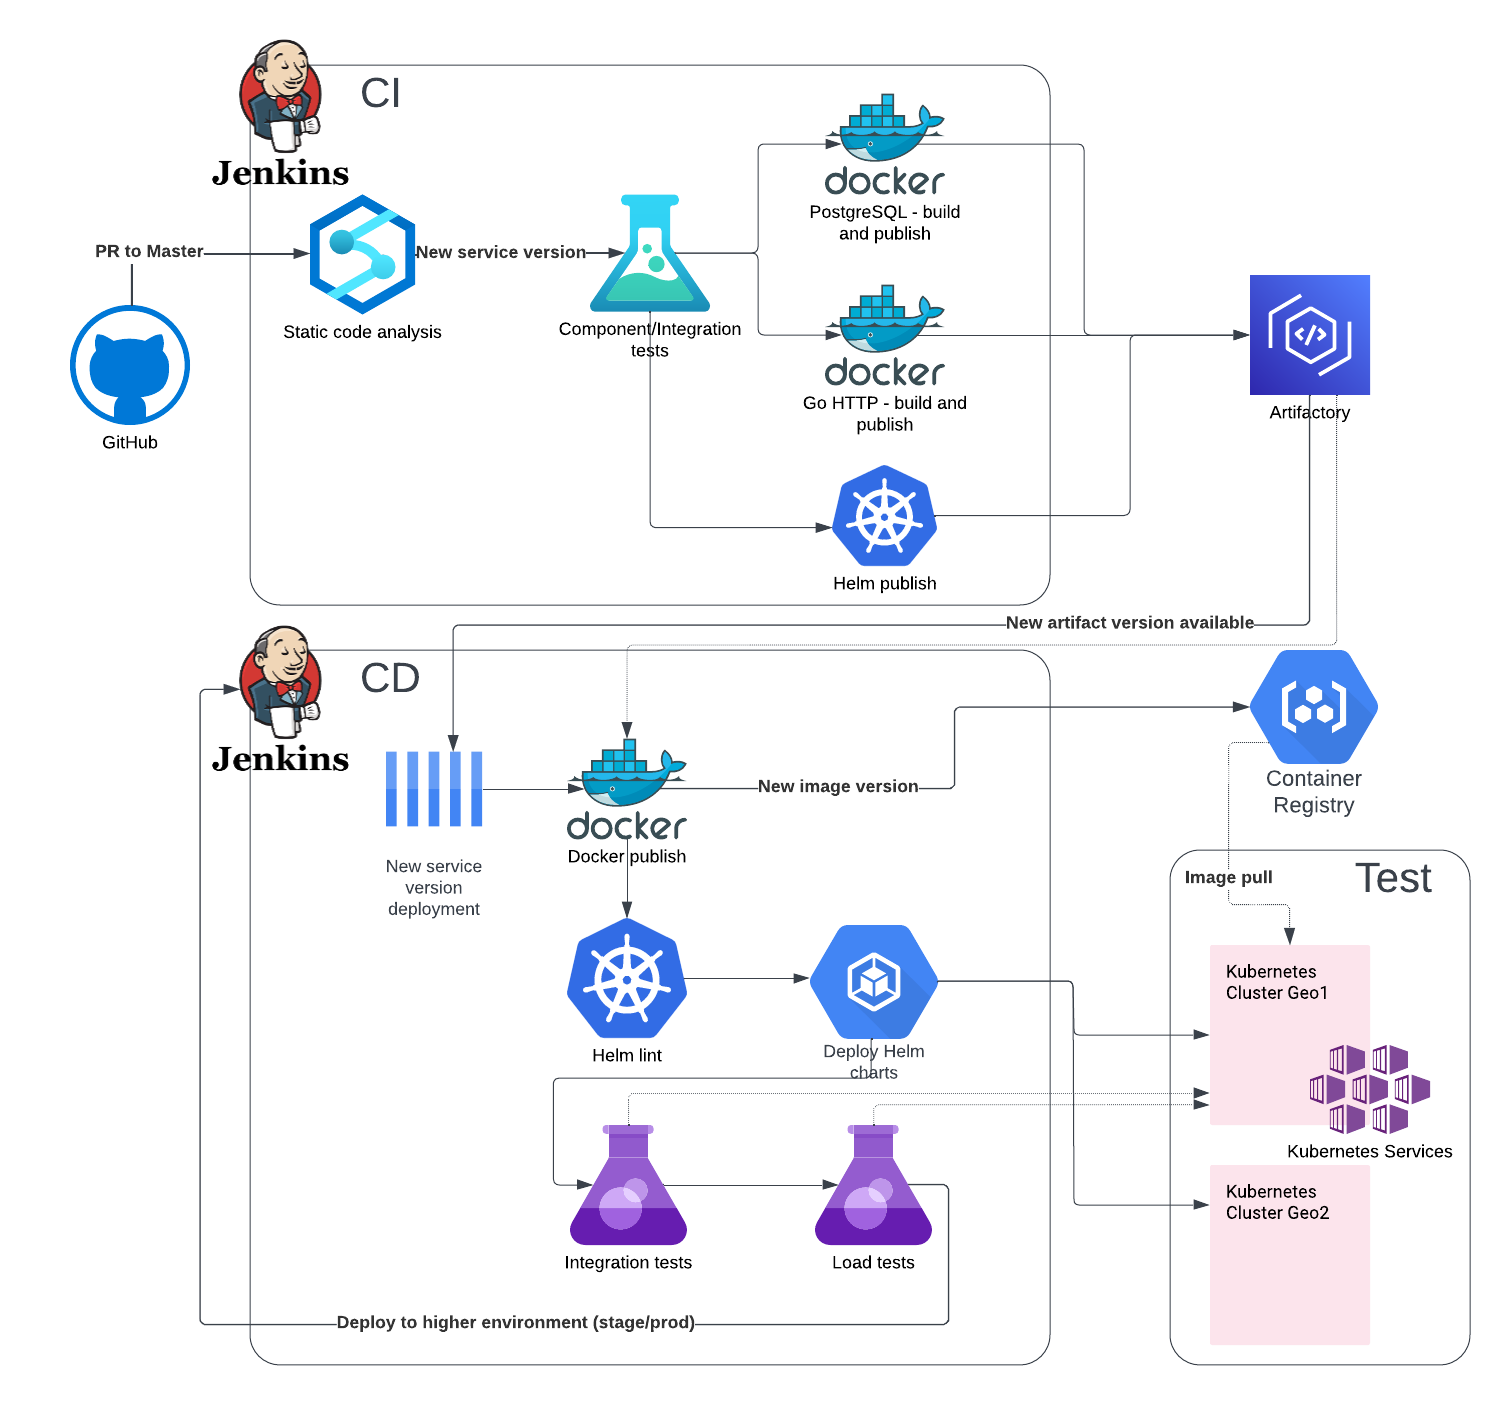
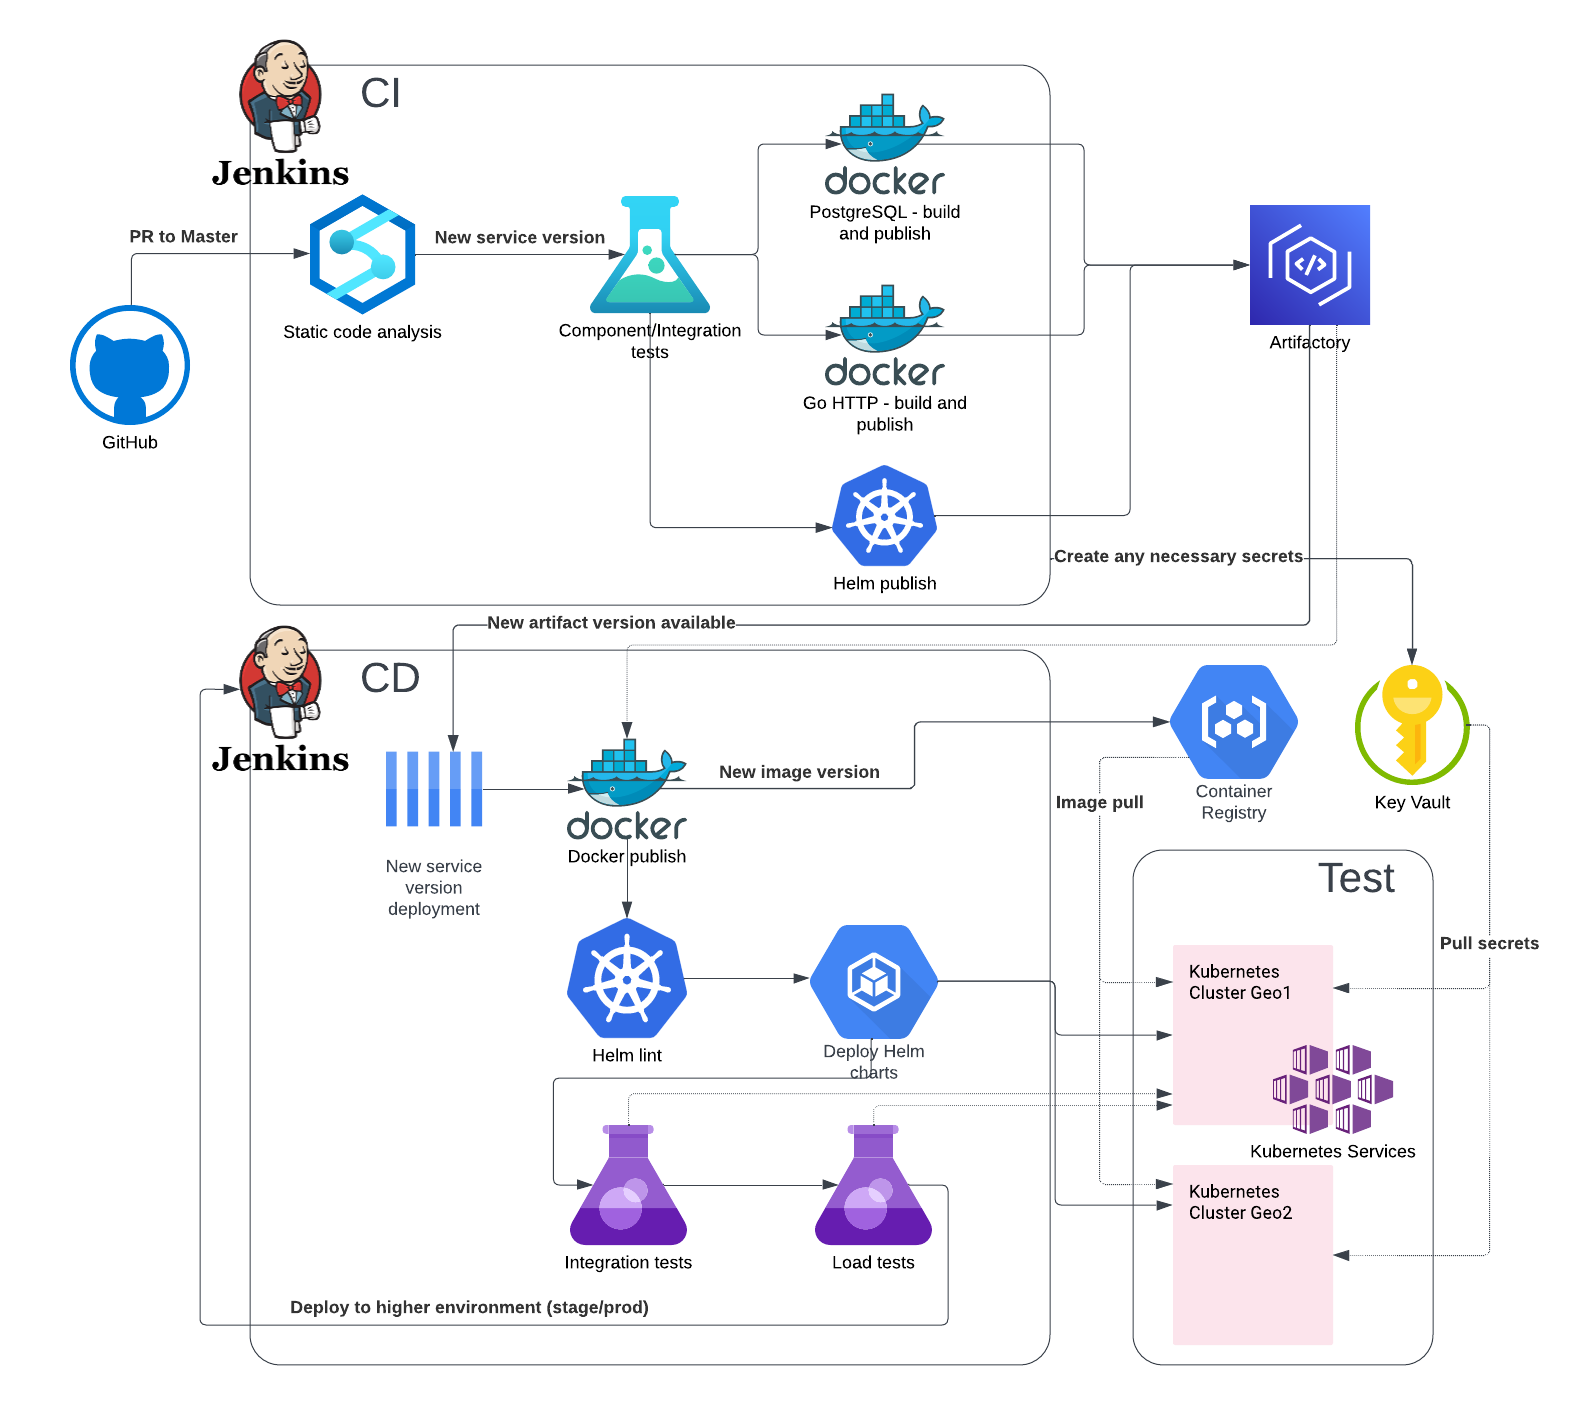
Added next steps

diff --git a/docs/next-steps.md b/docs/next-steps.md
@@ -1,0 +1,18 @@
+# Next steps
+
+Now that the application can be deployed into a Minikube cluster, the next steps would be to deploy the services to the cloud (AKS, EKS, etc.).
+This is where more best practices can be considered:
+* Scalability - deciding how many replicas of the service to configure and how many resources each should be using.
+* Availability - what geo/region the services should be running in and how best to failover in case something goes wrong.
+* Security - configure the networking inside the cluster and lock down the database to only be accessible by the HTTP server. Also, use a Vault to store secrets (e.g. connection string or database password).
+* Monitoring and alerting - set up alerts that would trigger when something goes wrong and dashboards that can be used to investigate where the problem might be.
+
+# Alternative solution
+
+## Using managed infrastructure
+
+In this example, the Postgres database was deployed alongside the server in the same cluster. Another option could be to deploy the database outside of the cluster.
+
+The benefit would be that Terraform can be used to deploy the database and store the connection string (or password) in a Vault. The server heml configuration can link to the secret which can be pulled when the server gets deployed in the cluster.
+
+The disadvantage with this solution is that by adding managed infrastructure, we are basically increasing the attack surface of the overall solution, therefore, security practices like adding a firewall should be considered for the database.

diff --git a/README.md b/README.md
@@ -24,7 +24,7 @@ docker build -f Dockerfile.dev -t go-http .
 docker run -d -p 8080:8080 --name go-gttp-container go-http
 ```
 
-## Running the service in Kubernetes
+## Running the service in Kubernetes (Minikube)
 
 ### Using kubectl
 
